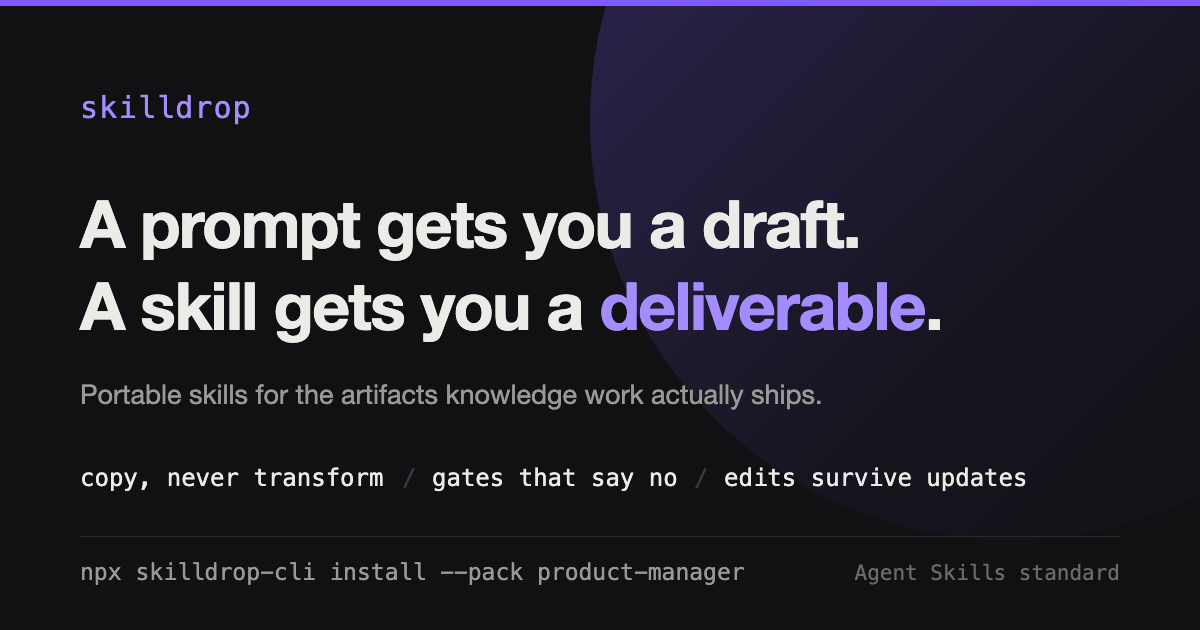
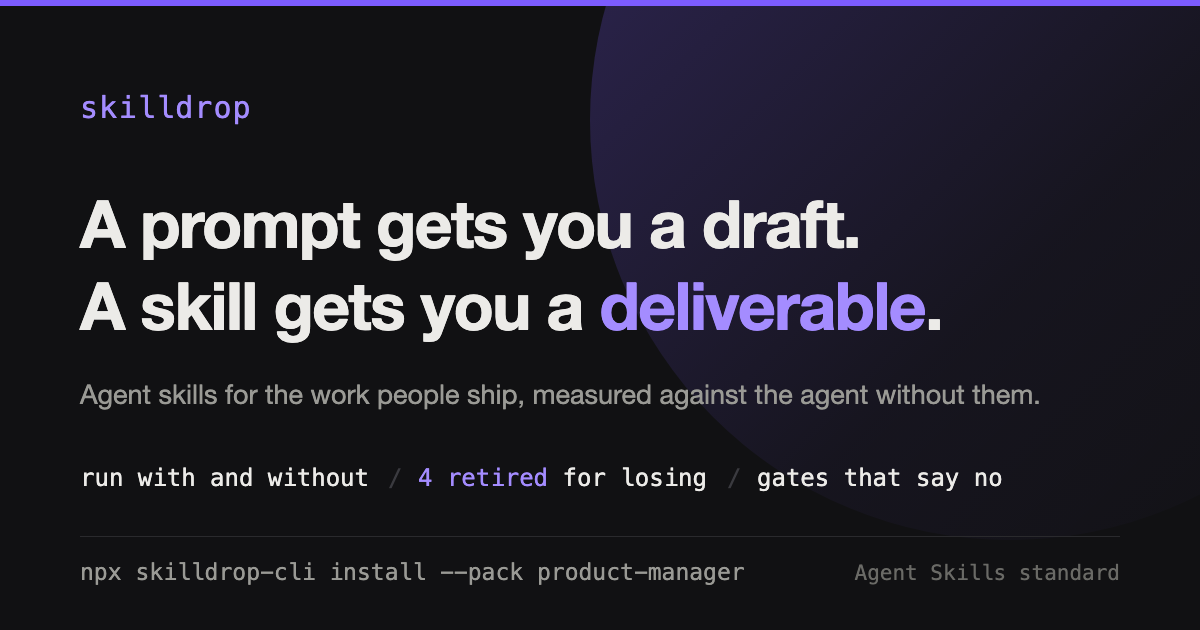
site: the share card leads with the evidence (0.16.41)
The OG card's middle row now reads "run with and without / 4 retired for
losing / gates that say no", under a subline that says the skills are
measured against the agent without them. The headline stays.
validate.py checks the card's retired count against catalogue.json,
beside the skill, pack and subagent counts it already checks. og.png is
re-rendered at 1200x630.

Changed region(s): [[0.0617, 0.6032, 0.8633, 0.6635], [0.0617, 0.7238, 0.8633, 0.7841]]

diff --git a/validate.py b/validate.py
@@ -808,8 +808,9 @@ def main():
         n_packs = len(catalog.pack_names())
         for claim, actual in ((r"(\d+) skills", len(skill_dirs)),
                               (r"(\d+) (?:role )?packs", n_packs),
-                              (r"(\d+) reviewer subagents", n_agents)):
-            m = re.search(claim, og_txt)
+                              (r"(\d+) reviewer subagents", n_agents),
+                              (r"(\d+) retired", len(index_doc.get("retired", {})))):
+            m = re.search(claim, re.sub(r"<[^>]+>", "", og_txt))
             if m and int(m.group(1)) != actual:
                 fail("assets/og.svg", f"says '{m.group(0)}' but {actual} are on disk "
                                       f"— update the SVG and re-render: rsvg-convert -w 1200 -h 630 "

diff --git a/CHANGELOG.md b/CHANGELOG.md
@@ -8,6 +8,10 @@ cannot ship undocumented.
 Format: `## <version> — <YYYY-MM-DD>`, newest first, one bullet per user-visible change.
 Bullets say what a user can now do, not which files moved.
 
+## 0.16.41 — 2026-10-21
+
+- **The share card says what sets skilldrop apart.** The card that shows when the site or repo is linked in Slack, Teams or LinkedIn says that skills are run with and without themselves, that 4 were retired for losing, and that gates can say no. `validate.py` checks the retired count on the card against the catalogue, the same way it checks the other counts.
+
 ## 0.16.40 — 2026-10-20
 
 - **Every release can be verified.** Each GitHub Release now carries:
